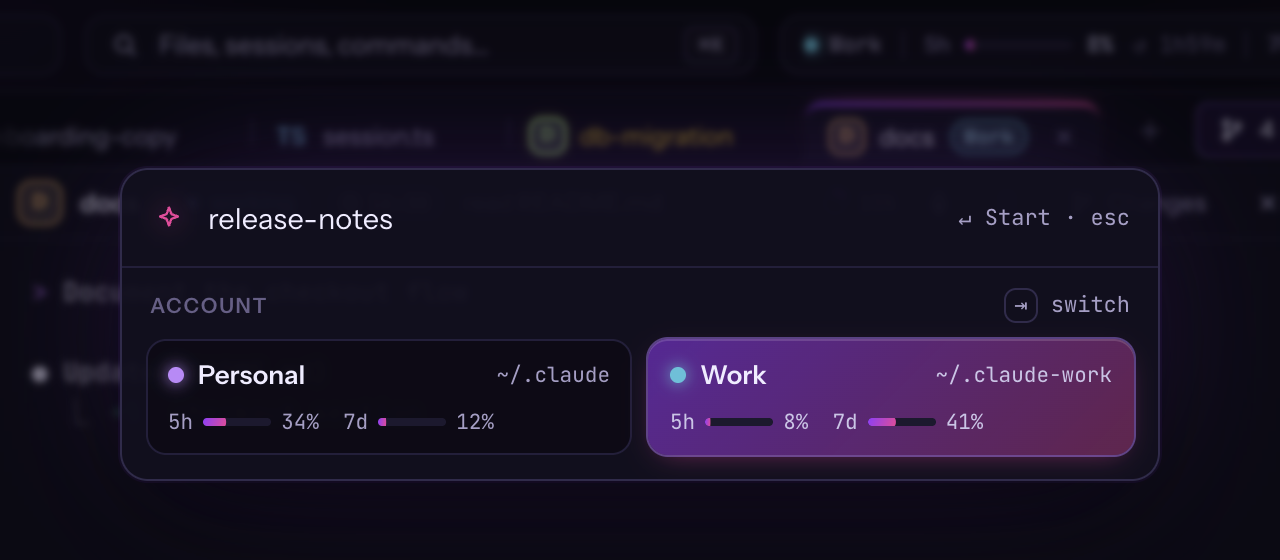
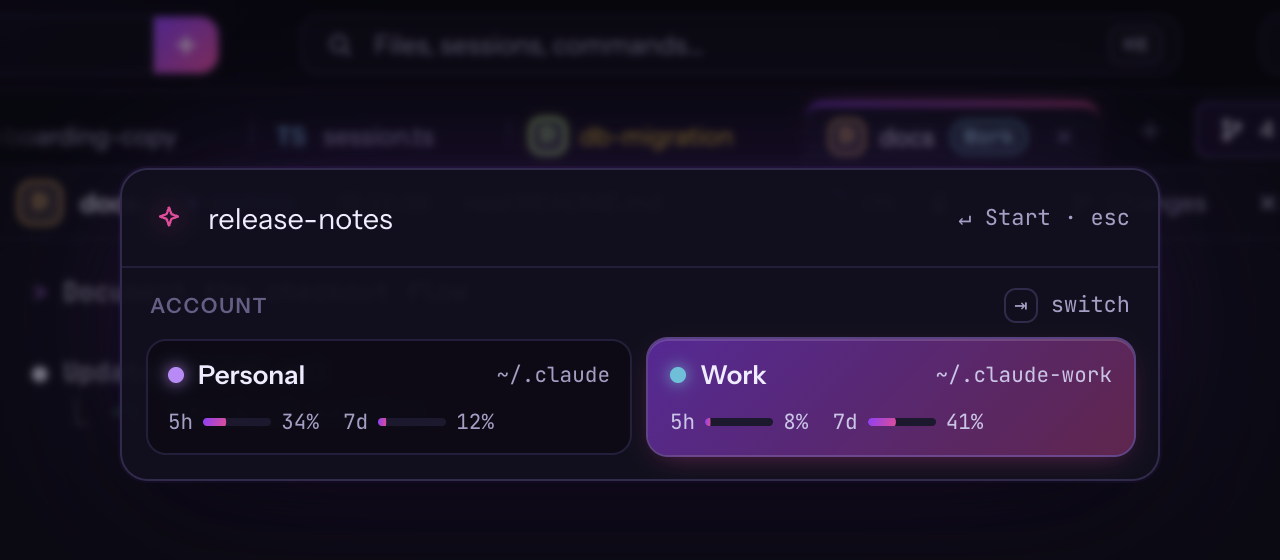
README: CSV tables in the editor, launch flags per Claude account; refreshed screenshots with the one-bar header

diff --git a/README.md b/README.md
@@ -114,7 +114,7 @@ Claude session on it in a worktree of its own, and says why.
 
 Open, edit and save files without leaving the session. When Claude edits the same file, nothing gets lost.
 
-- Find and replace, comments, Markdown preview and a JSON tree with tables
+- Find and replace, comments, Markdown preview, a JSON tree and CSV tables
 - Compare, keep yours or reload when Claude changes a file
 - ⌘L mentions the selected lines in the session
 
@@ -138,6 +138,7 @@ remembers which one it runs as.
 - Each account's 5-hour and weekly limits, right where you choose
 - A chip on the sessions that run as another account
 - Resume, the session panel and dictation clean-up follow each session's account
+- Your own claude flags on every new session, or on one account's only
 
 <img src="assets/accounts.png" alt="New Session with two Claude accounts, Personal and Work, each with its limits; Work is picked" width="100%">
 
